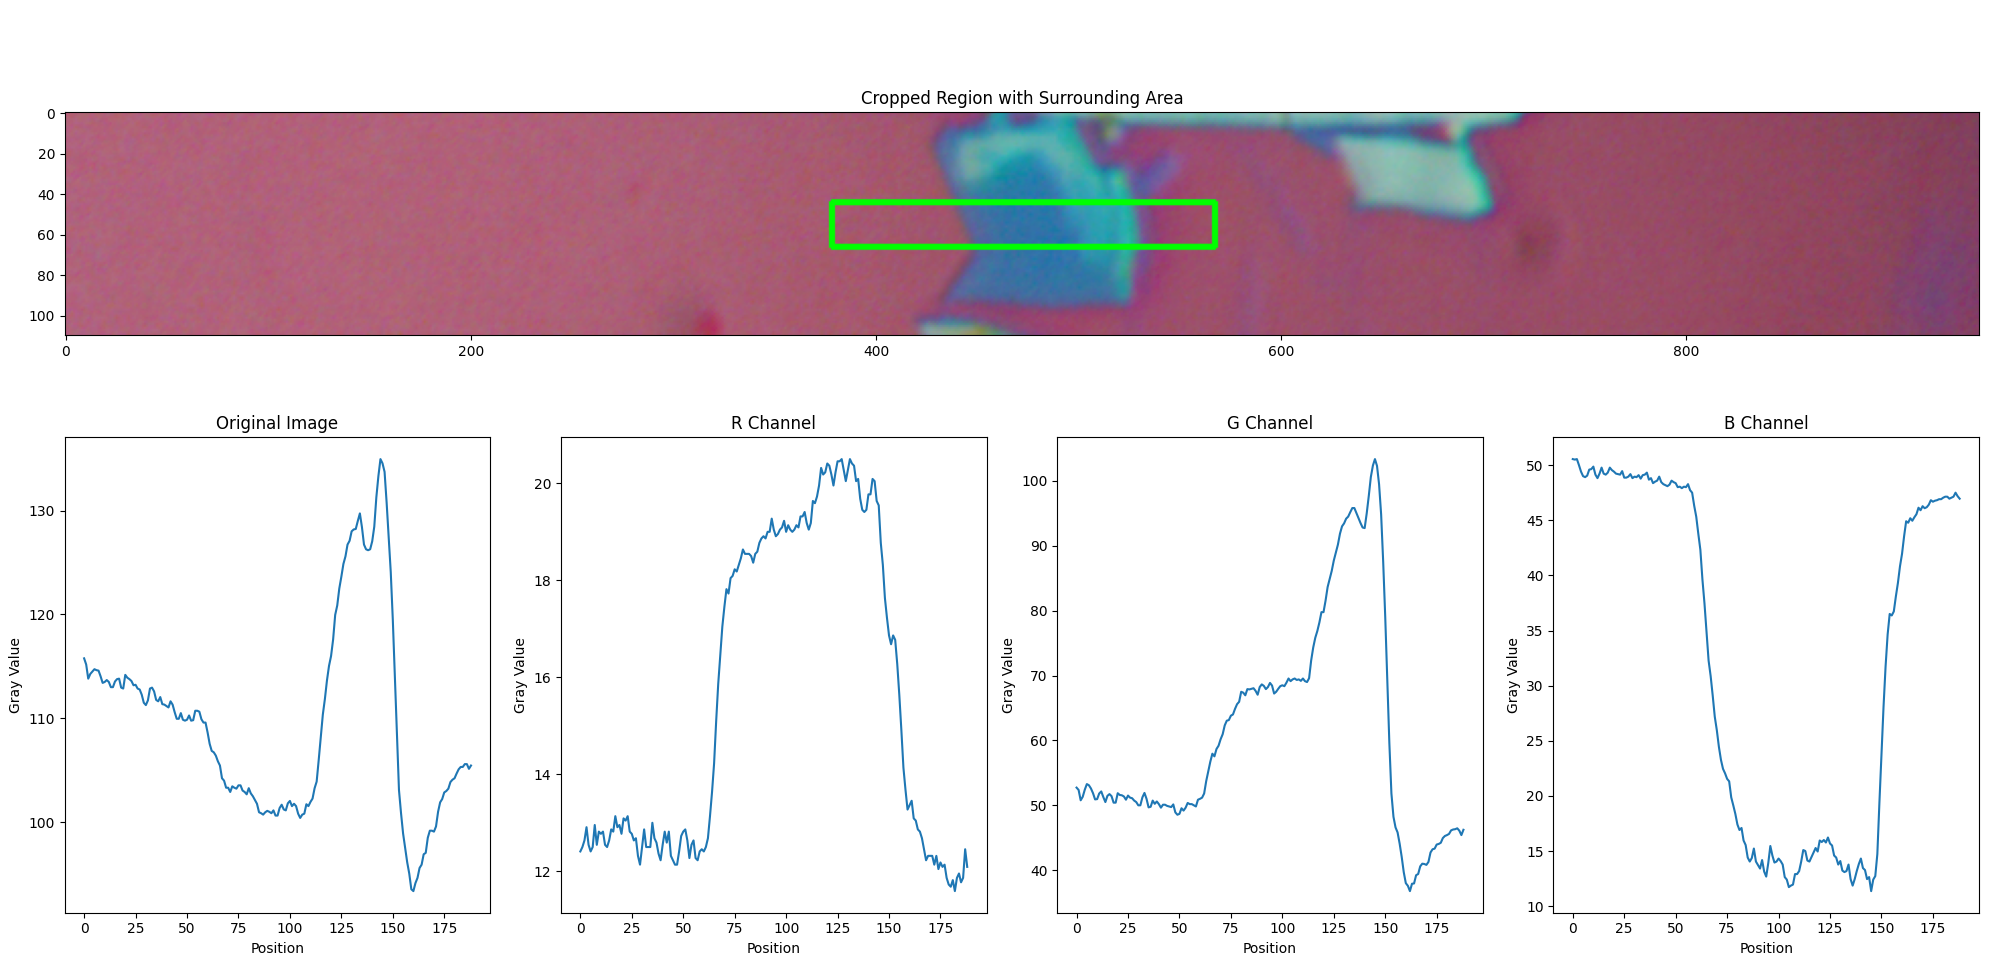
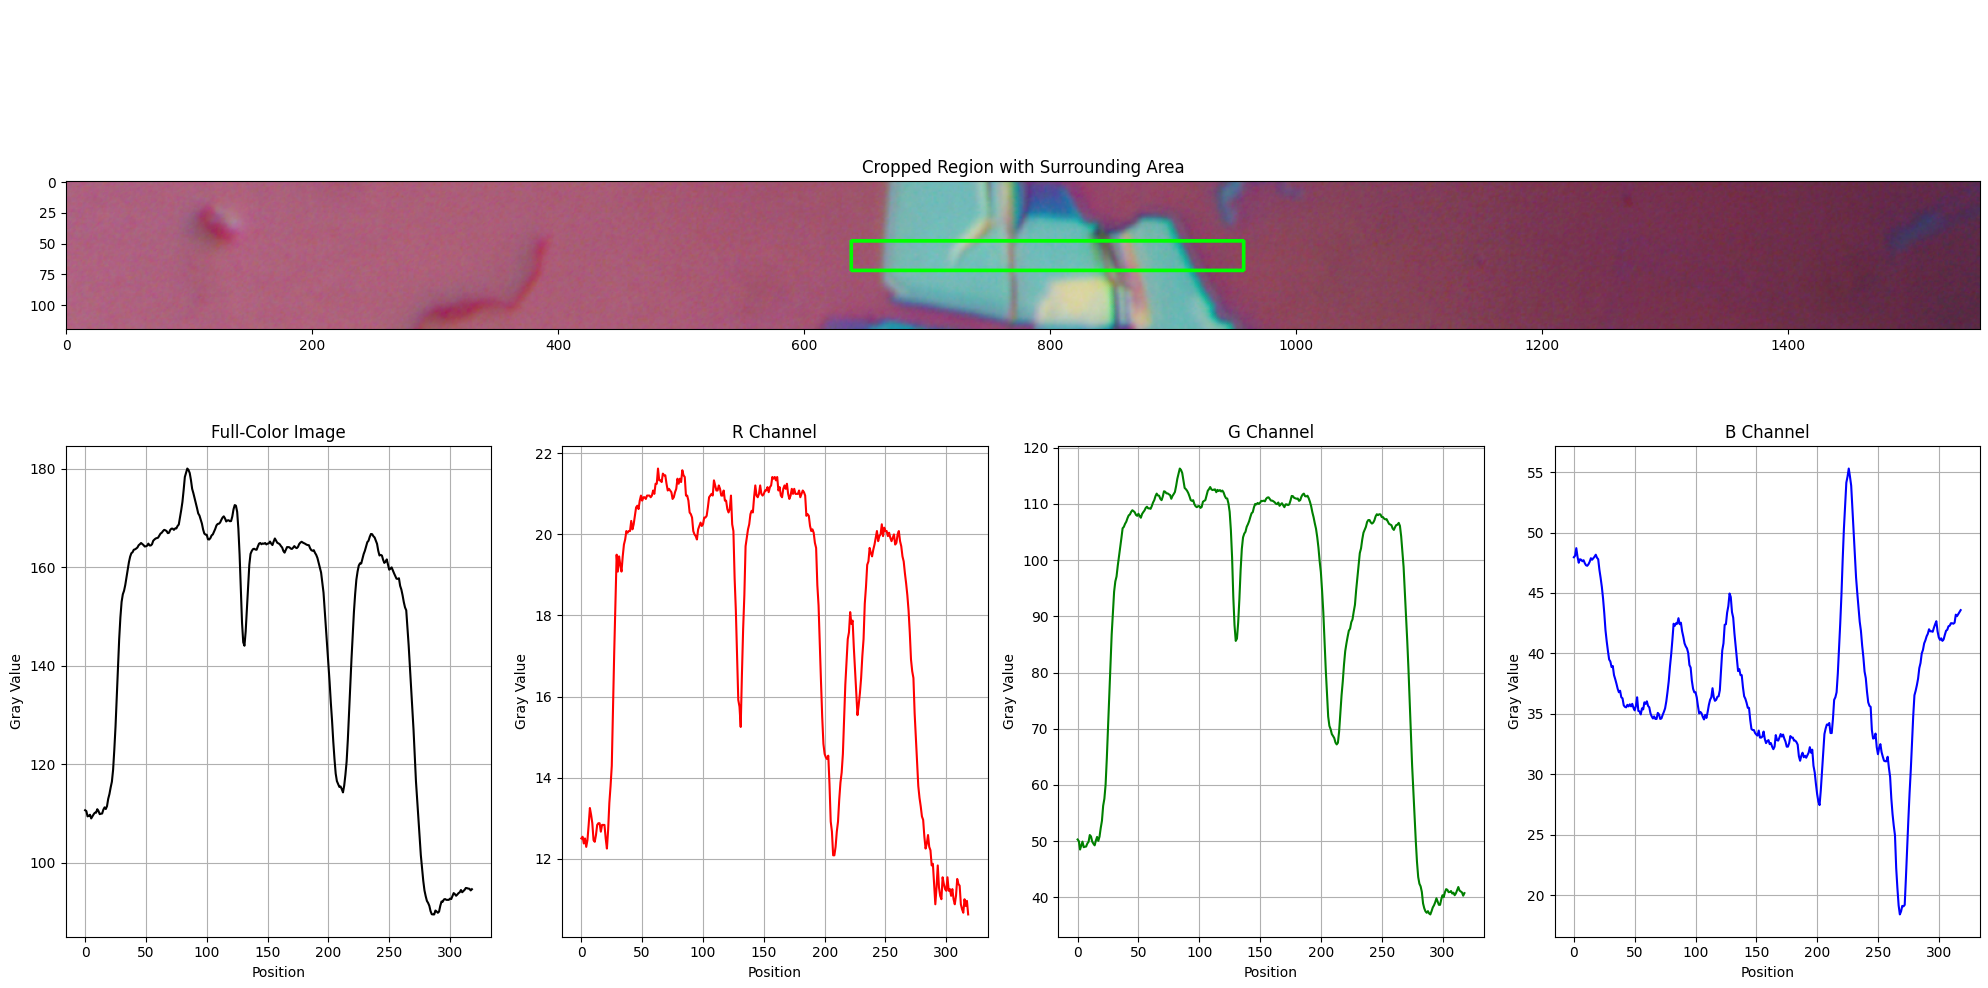
Update Colors

diff --git a/ContrastMapping.py b/ContrastMapping.py
@@ -38,7 +38,8 @@ def plot_gray_value_vs_position(images, titles, extended_crop):
     ax1.set_title('Cropped Region with Surrounding Area')
 
     # Plot the gray value vs position for the original and individual channels
-    for i, (image, title) in enumerate(zip(images, titles)):
+    colors = ['black', 'red', 'green', 'blue']
+    for i, (image, title, color) in enumerate(zip(images, titles, colors)):
         gray_image = cv2.cvtColor(image, cv2.COLOR_BGR2GRAY)
         long_side_length = max(gray_image.shape)
         long_side_idx = np.argmax(gray_image.shape)
@@ -50,7 +51,8 @@ def plot_gray_value_vs_position(images, titles, extended_crop):
             gray_values = np.mean(gray_image, axis=0)
 
         ax = fig.add_subplot(2, 4, i + 5)
-        ax.plot(positions, gray_values)
+        ax.plot(positions, gray_values, color=color)
+        ax.grid(True)
         ax.set_xlabel('Position')
         ax.set_ylabel('Gray Value')
         ax.set_title(title)
@@ -93,7 +95,7 @@ def process_image():
         cv2.merge([np.zeros_like(r_channel),
                   np.zeros_like(g_channel), b_channel])
     ]
-    titles = ['Original Image', 'R Channel', 'G Channel', 'B Channel']
+    titles = ['Full-Color Image', 'R Channel', 'G Channel', 'B Channel']
     plot_gray_value_vs_position(images, titles, extended_crop)
 
 
